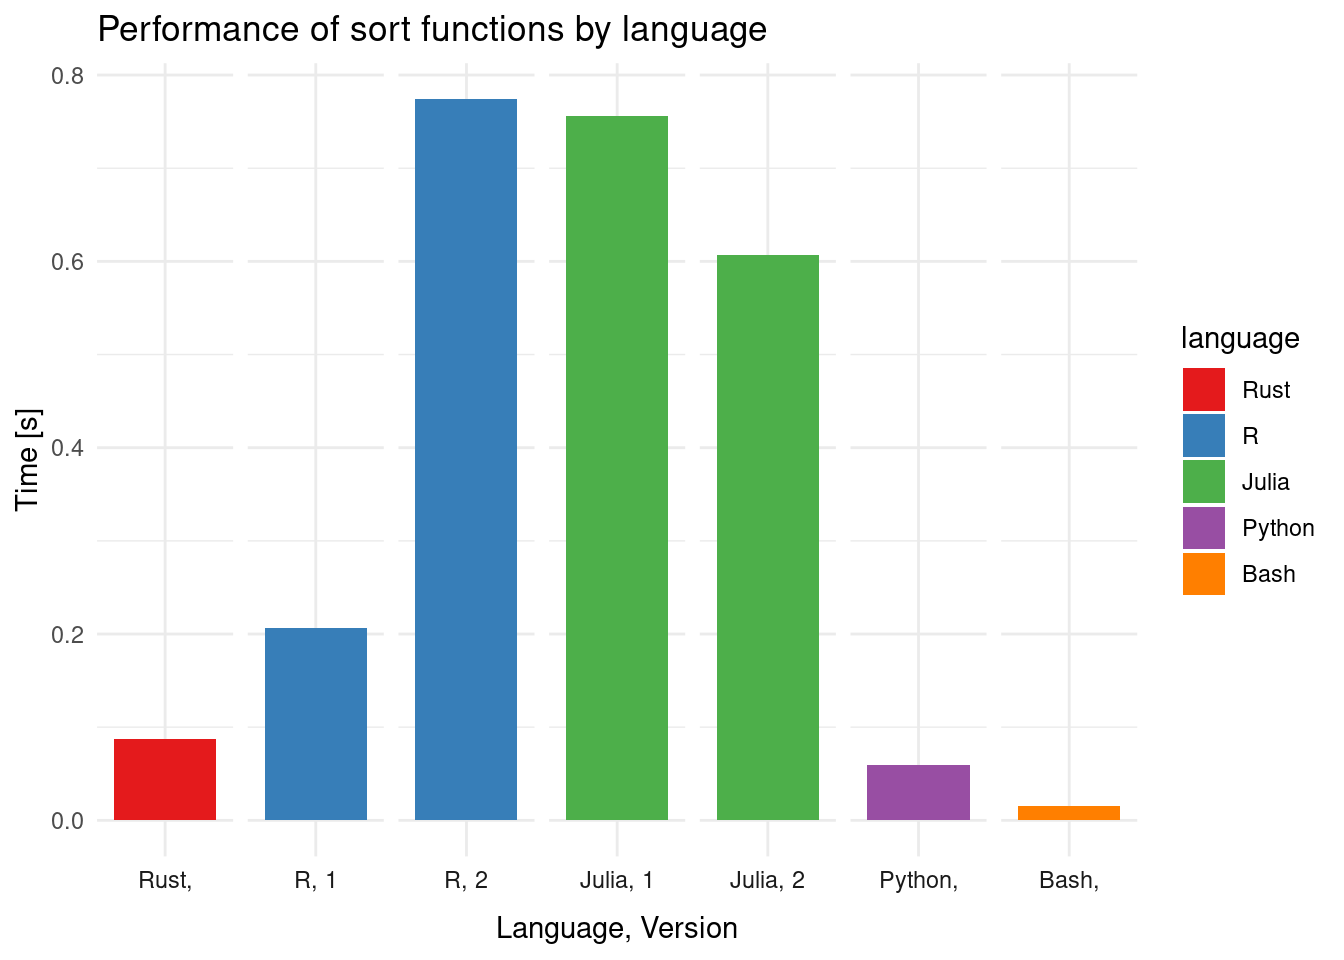
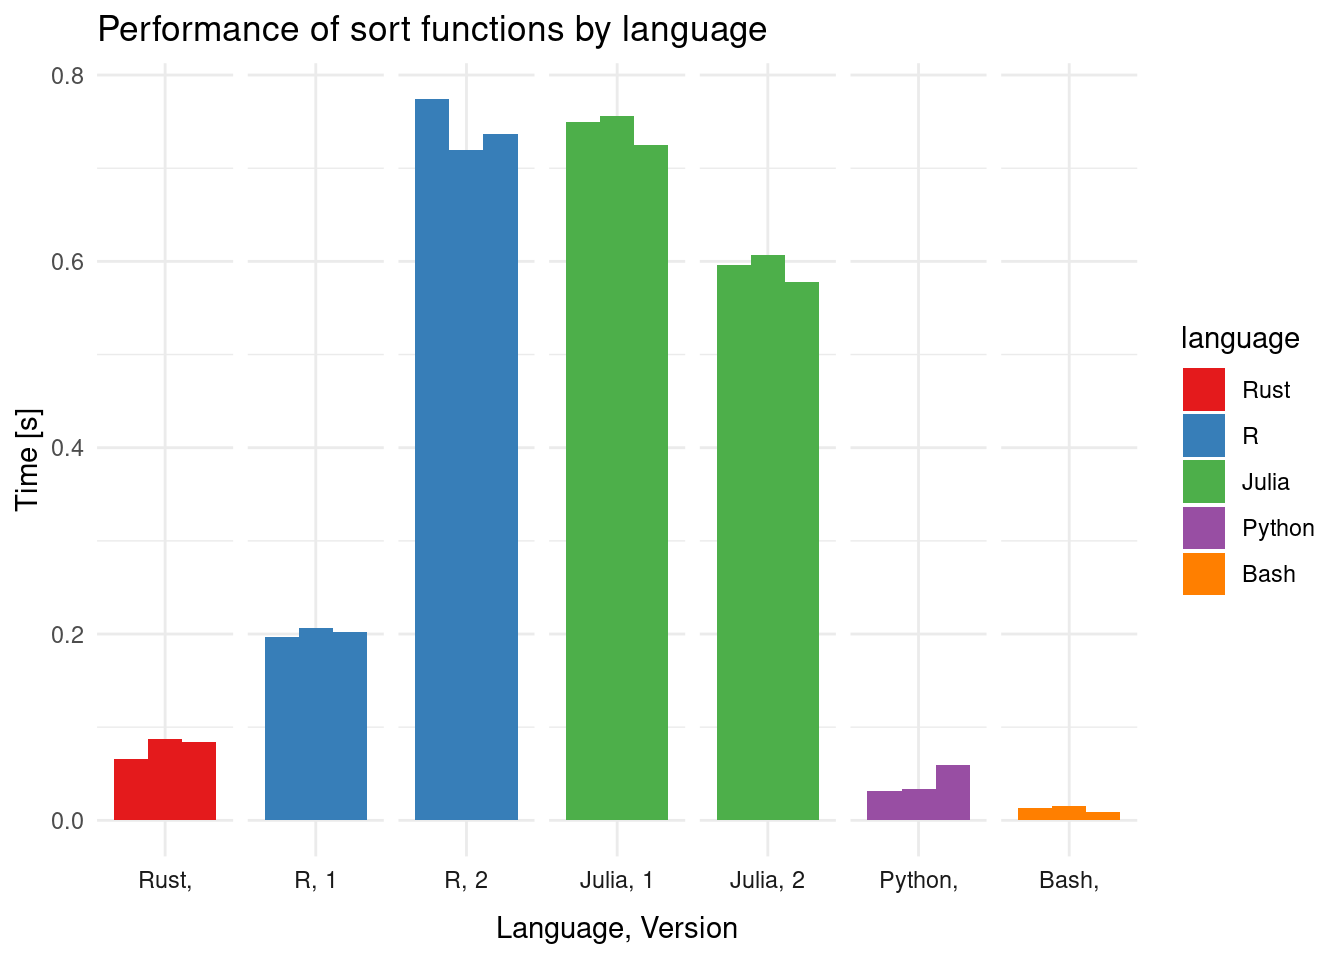
split runs

diff --git a/content/post/2022-10-08-polyglot-sorting/index.en.html b/content/post/2022-10-08-polyglot-sorting/index.en.html
@@ -255,7 +255,7 @@ d$language &lt;- factor(
   levels = c(&quot;Rust&quot;, &quot;R&quot;, &quot;Julia&quot;, &quot;Python&quot;, &quot;Bash&quot;)
 )
 
-ggplot(d, aes(language, time, fill = language, group = version)) +
+ggplot(d, aes(language, time, fill = language, group = run)) + 
   geom_col(position = position_dodge(0.9)) + 
   facet_grid(
     ~language + version, 
